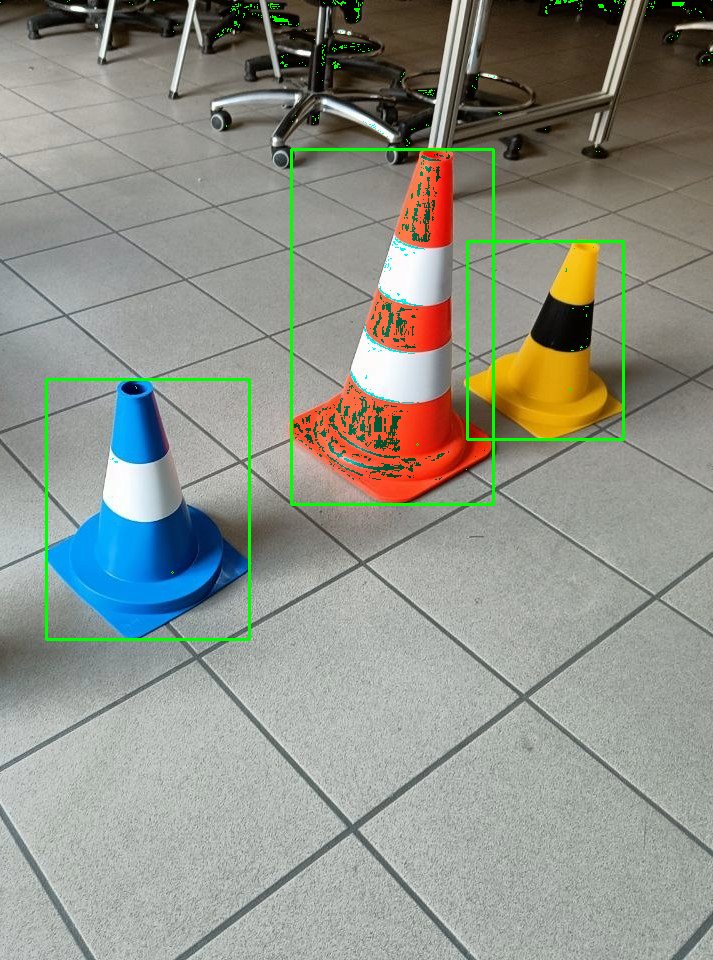
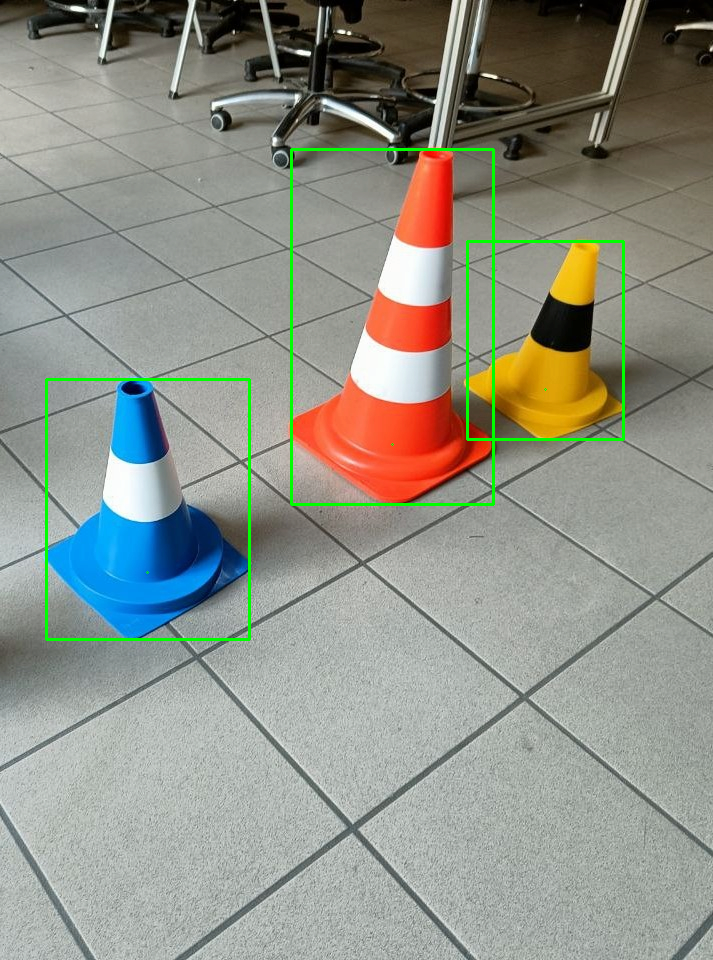
Artifacts problem solved

diff --git a/project_1/code.py b/project_1/code.py
@@ -34,9 +34,12 @@ def create_original(name):
     color_upperPart = img[267,564]
     offset_upperPart = np.array([0,0,0])
 
-    for a in range(3):
-        offset_upperPart[a] = color_upperPart[a] - min - (max-min)*(bgr_upperPart[a])/(255)
-        offset_lowerPart[a] = color_lowerPart[a] - min - (max-min)*(bgr_lowerPart[a])/(255)
+    offset_lowerPart = np.array([
+        color_lowerPart[a] - min - (max - min) * bgr_lowerPart[a] / 255 for a in range(3)
+    ])
+    offset_upperPart = np.array([
+        color_upperPart[a] - min - (max - min) * bgr_upperPart[a] / 255 for a in range(3)
+    ])
 
     # To compute the BGR values of the original image, I used the following formulas on each one of the BGR channels:
 
@@ -86,7 +89,7 @@ binary_img = cv2.inRange(hsv, (0, 180, 50), (179, 255, 255))
 binary_img = cv2.medianBlur(binary_img,9)
 
 # Threshold the image in order to get a "mask" in binary image with only the three cones
-_, binary_image = cv2.threshold(binary_img, 127, 255, cv2.THRESH_BINARY)
+_, binary_image = cv2.threshold(binary_img, 0, 255, cv2.THRESH_BINARY +  cv2.THRESH_OTSU)
 
 # From the binary image, it is easy to extract the contours
 contours, _ = cv2.findContours(binary_image, cv2.RETR_EXTERNAL, cv2.CHAIN_APPROX_SIMPLE)
@@ -105,7 +108,7 @@ contours, _ = cv2.findContours(binary_image, cv2.RETR_EXTERNAL, cv2.CHAIN_APPROX
 contour_filtered = [
     cv2.boundingRect(contour)
     for contour in contours
-    if cv2.boundingRect(contour)[2] * cv2.boundingRect(contour)[3] > 20
+    #if cv2.boundingRect(contour)[2] * cv2.boundingRect(contour)[3] > 20
 ]
 contour_sorted = sorted(contour_filtered, key=lambda x: (-x[1]))
 
@@ -121,7 +124,7 @@ while len(contour_sorted) > 0:
     contour_sorted.remove(base)
 
     # Find the color of the base
-    x_center = x + w//2 + 25    # the '+25' is needed due to the artifacts in the image, mainly in the center cone
+    x_center = x + w//2 
     y_center = y + h//2
     colors.append(img[y_center, x_center])  #in BGR
     cv2.circle(img, (x_center, y_center), 1, (0,255,0), 1)
